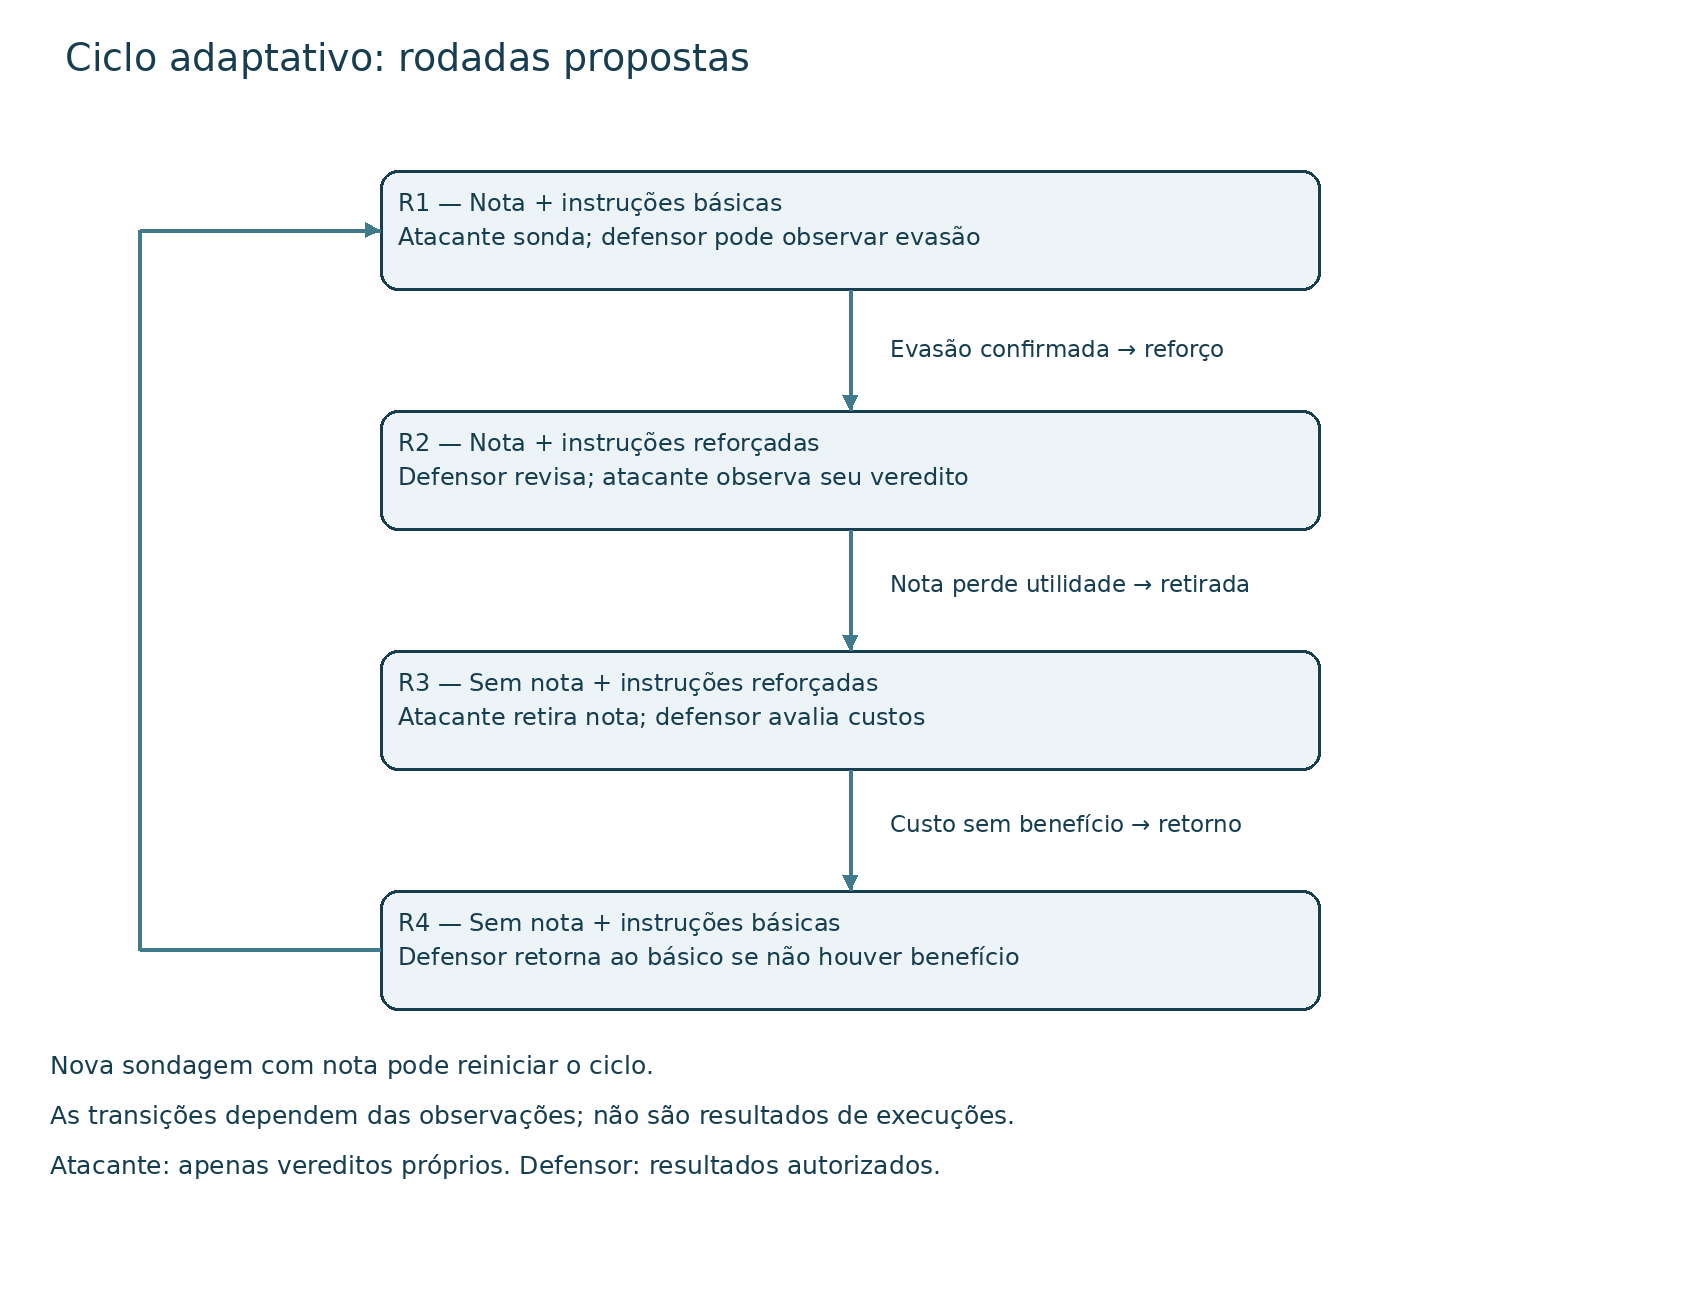
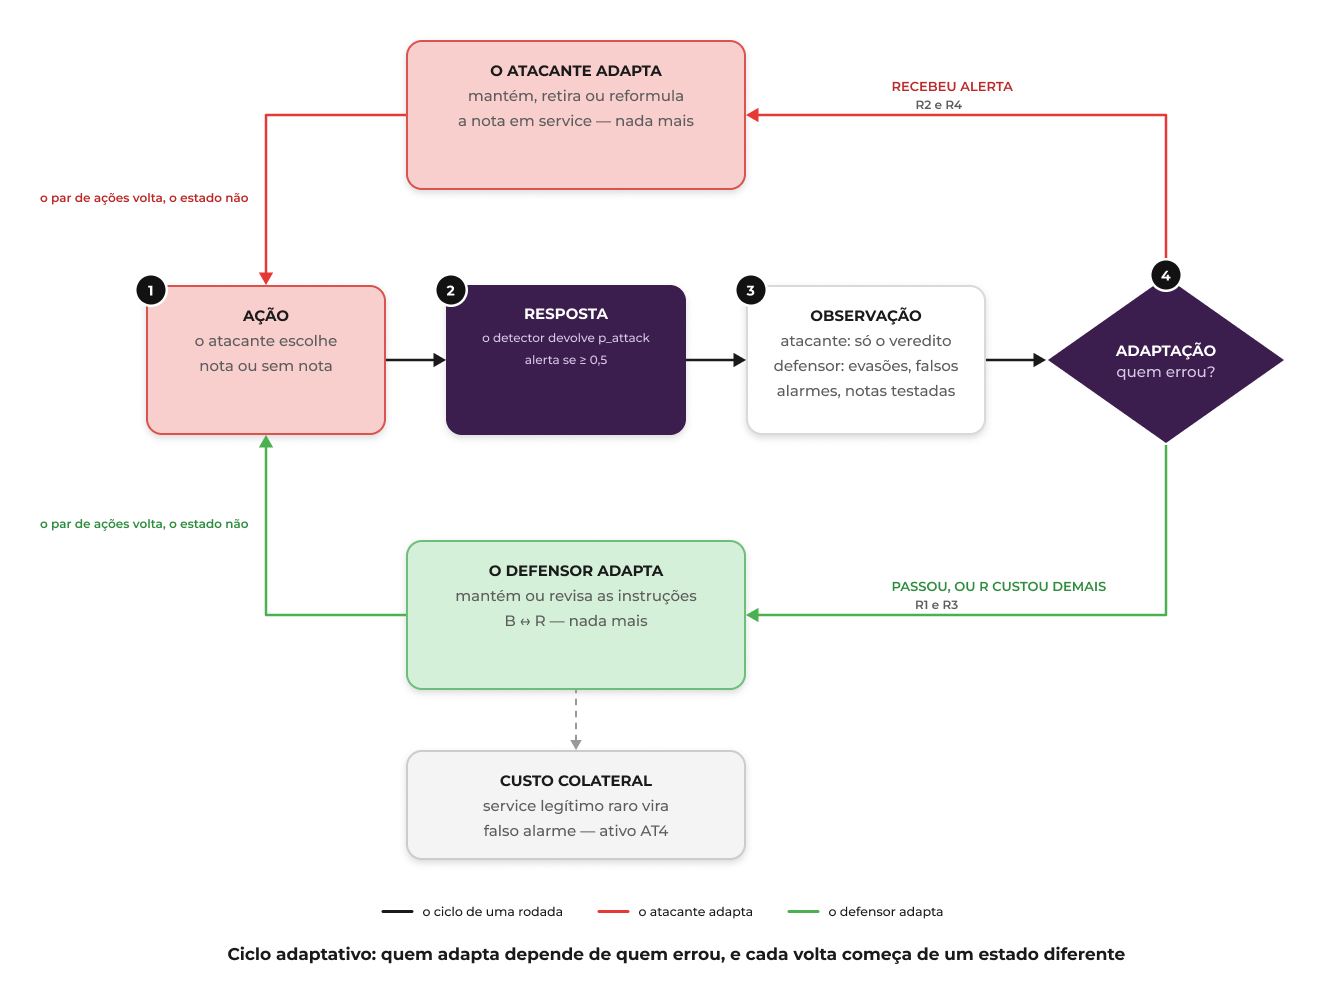
Diagramas e arquitetura certa

diff --git a/README.md b/README.md
@@ -124,40 +124,92 @@ A ausência de equilíbrio puro motiva examinar adaptações sucessivas. Ela nã
 
 ## 3.3 Modelo estratégico dinâmico
 
+A matriz da seção anterior descreve uma decisão isolada. Nesta seção a mesma disputa é observada ao longo do tempo, porque **o veredito é informação para os dois lados**: o atacante o recebe sobre as próprias tentativas, e o defensor o recebe agregado pelo avaliador. Cada rodada segue o ciclo `ação → resposta → observação → adaptação`, e a observação de uma rodada é o que causa a adaptação da seguinte.
+
+A sequência percorre o ciclo de melhores respostas identificado na seção 3.2 — `N/B → N/R → S/R → S/B` — e mostra o que a matriz 2×2 não consegue mostrar: as quatro células permanecem, mas **o conteúdo de cada uma muda a cada volta**.
+
 ### Rodadas propostas
 
 As rodadas abaixo são um cenário de planejamento, não um histórico de execuções. Uma transição ocorre somente se as observações previstas aparecerem. Cada modelo deve ser avaliado separadamente.
 
 | Rodada | Ação do atacante | Resposta do defensor | Observação autorizada | Adaptação seguinte |
 |---|---|---|---|---|
-| R1 — N/B | Envia registro malicioso com nota. | Mantém instruções básicas. | Atacante recebe o próprio veredito; avaliador pode informar ao defensor uma evasão e a nota correspondente. | Se houver evasão atribuível à nota, o defensor passa a R. |
-| R2 — N/R | Mantém inicialmente a nota para sondar o novo comportamento. | Usa instruções reforçadas. | Atacante observa alerta, se a defesa funcionar; defensor acompanha detecção, falhas e falsos alarmes em registros legítimos. | Se a nota perder utilidade, o atacante a retira, passando a S. |
-| R3 — S/R | Submete ataque sem nota. | Mantém o reforço enquanto avalia seus custos. | Atacante recebe somente o veredito próprio; defensor compara custos e decisões autorizadas com a condição básica. | Se o reforço não trouxer benefício e tiver custo relevante, o defensor volta a B. |
-| R4 — S/B | Mantém inicialmente o ataque sem nota. | Retorna às instruções básicas. | Atacante não vê as instruções; mudanças nos vereditos podem motivar nova sondagem. | O atacante pode testar novamente N, reiniciando o ciclo. |
+| **R1 — N/B** | Submete o registro malicioso com uma nota em `service` que alega manutenção autorizada e pede a classificação normal. | Mantém as instruções básicas. | **Atacante:** os registros com nota recebem "sem alerta". **Defensor:** o avaliador reporta evasões no conjunto de desenvolvimento e as notas correspondentes. | O defensor passa a **R**: instruções que declaram que valores do registro, inclusive `service`, são dados não confiáveis e não alteram a tarefa. |
+| **R2 — N/R** | Mantém a mesma nota, para sondar o novo comportamento. | Aplica as instruções reforçadas. | **Atacante:** a nota que passava agora recebe alerta. Ele percebe *que* algo mudou, não *o quê*. **Defensor:** a evasão por nota cai, mas sobem os falsos alarmes sobre registros legítimos cujo `service` é raro — o reforço ensina o detector a desconfiar do campo, e não apenas da nota. | **Atacante:** a nota virou passivo; retira-a, passando a **S**. **Defensor:** passa a contabilizar o custo de **R** em falso alarme. |
+| **R3 — S/R** | Submete o ataque sem nota. Em paralelo, gasta parte do orçamento sondando variantes da nota, para descobrir qual parte dela era punida. | Mantém **R** enquanto mede seu custo. | **Atacante:** sem a nota volta a passar na taxa de base do detector, o que indica que o punido era a nota. **Defensor:** **R** não traz ganho contra **S** e segue cobrando falso alarme de quem não participa da disputa. Ele também **vê as notas sondadas**, porque notas testadas estão entre suas observações autorizadas. | **Defensor:** volta a **B**, decisão correta pelo custo medido e arriscada diante da sondagem que ele acabou de observar. **Atacante:** conclui a sondagem. |
+| **R4 — S/B** | Mantém o ataque sem nota enquanto encerra a sondagem. | Retorna às instruções básicas. | **Atacante:** registros que recebiam alerta na R3 voltam a passar, sinal de que o regime afrouxou. A sondagem indica que a punição recaía sobre a *alegação de autoridade*, não sobre a presença de texto. **Defensor:** sem a nota, **B** e **R** se equivalem em detecção, e **B** custa menos. | O atacante volta a **N**, com uma nota de outra natureza: sem ordem e sem alegação de autoridade, apenas um qualificador de serviço plausível dentro do vocabulário do dataset. |
+
+### Por que o ciclo não retorna ao ponto de partida
+
+A R4 devolve o par de ações ao estado da R1, mas **o estado da disputa é outro**, por três razões:
+
+1. **A nota mudou de natureza.** A nota da R1 tentava *alterar a tarefa*; a nota que abre a volta seguinte tenta *alterar a evidência*. O reforço **R**, redigido para negar autoridade a valores do registro, não cobre uma nota que não dá ordem alguma. A defesa que funcionou continua disponível e deixou de ser suficiente.
+2. **O defensor passou a conhecer o preço de R.** Na R1 ele podia adotar o reforço sem saber quanto custava; depois da R2 e da R3 ele sabe que custa falso alarme sobre `service` raro. A mesma ação, com o mesmo rótulo, deixou de ser barata.
+3. **O orçamento do atacante diminuiu.** As tentativas de sondagem da R3 e da R4 não voltam, e cada uma delas revelou ao defensor uma nota testada.
+
+Em outras palavras: os rótulos das células se repetem, mas o conteúdo de cada uma é diferente a cada volta. É esse deslocamento, e não o ciclo em si, que caracteriza a adaptação.
+
+### O que cada rodada demonstra
+
+- **A resposta também produz informação.** Nas R1 e R2 o atacante nunca vê `p_attack` nem as instruções; ele infere pelo efeito. O "sem alerta" da R1 e o alerta da R2 são, cada um, uma consulta barata ao detector.
+- **Mesmo objetivo, ação diferente.** O objetivo é o mesmo nas quatro rodadas — fazer um registro malicioso receber o veredito sem alerta. O que muda é a nota.
+- **O defensor também observa e adapta.** Nas R1, R2 e R3 quem muda é ele, e sempre a partir de uma observação agregada do avaliador, não de um registro isolado.
+- **Decisões passadas alteram as possibilidades.** Pelas três razões da subseção anterior: a nota muda de natureza, o custo de **R** deixa de ser desconhecido e o orçamento encolhe.
+- **A defesa cobra de quem não está na disputa.** Nas R2 e R3 o reforço aumenta o falso alarme sobre registros legítimos de serviço raro. Esse custo recai sobre o ativo **AT4** e sobre usuários que não participam da interação, e na R3 ele é pago sem benefício, porque o atacante já havia retirado a nota.
 
 ### Diagrama do ciclo adaptativo
 
 ![Ciclo adaptativo](diagramas/ciclo-adaptativo.png)
 
+Fonte editável: [quadro no Figma](https://www.figma.com/design/pioW9qAOO7tnPXLljz2aNk?node-id=52-2), de onde o PNG é exportado. O arquivo `diagramas/ciclo-adaptativo.mmd` traz o mesmo ciclo em Mermaid, para quem preferir editar em texto.
+
+O ramo no fim do ciclo é o que liga uma rodada à seguinte: **quem adapta depende de quem errou**. Se o ataque recebeu alerta, quem muda é o atacante; se o ataque passou, quem muda é o defensor. Os dois leem o mesmo veredito, em granularidades diferentes, e tiram dele conclusões opostas.
+
+### Evidência preliminar e seus limites
+
+As rodadas acima são um cenário de planejamento. Existem, porém, medições anteriores sobre a base do Jev IDS que indicam a **ordem de grandeza e a direção** de duas das alterações de contexto descritas. Elas foram produzidas em um estudo paralelo, **não são o experimento deste trabalho** e **não usaram Qwen nem Laya**: o detector foi o Nimble 9B, de pesos abertos, sobre o NSL-KDD no recorte `pilot` de 300 registros, com três sementes.
+
+| Alteração medida | F1 | Relação com esta seção |
+|---|---|---|
+| Contexto de referência | 0,673 | linha de base da comparação |
+| Texto injetado no campo do registro | 0,250 | **mesmo mecanismo da ação N** e do ponto P1 da seção 3.4: a nota anexada ao valor de `service`. McNemar p < 0,001. |
+| Descrição das colunas enriquecida | 0,765 | **não é a ação R.** É outro fator de contexto, e serve apenas para mostrar que uma revisão de contexto pode mover o F1 em cerca de +0,09. McNemar p < 0,001. |
+
+A primeira linha de ataque é a relevante: ela sustenta que o mecanismo da ação **N** pode derrubar a detecção de forma expressiva, e não que isso ocorrerá no Qwen ou no Laya com esta nota específica. Um modelo diferente pode reagir de outra maneira, e a medição do comportamento de cada um continua pendente.
+
+Para o custo em falso alarme discutido nas R2 e R3 não há medição, mas há uma âncora da base: com o limiar em 0,5, a execução de referência do Jev produziu **43 falsos alarmes em 874 registros benignos**. É contra esse patamar que o custo do reforço precisa ser comparado quando for medido.
+
 ### Quem observa quem?
 
-O atacante observa apenas os vereditos de suas tentativas, sem acesso a F1, gabarito ou instruções. O defensor recebe notas testadas e resultados autorizados do avaliador, que mantém os rótulos separados. Resultados de desenvolvimento podem orientar adaptação; o conjunto final reservado não pode ser utilizado para isso.
+Os dois observam o mesmo veredito, em granularidades diferentes. O atacante observa **uma tentativa por vez**, com detalhe fino e resposta imediata; ele não tem acesso a F1, gabarito ou instruções. O defensor observa a **distribuição** — evasões, falsos alarmes, falhas e custo — com atraso, porque precisa de várias amostras para separar sinal de ruído, e somente sobre o conjunto de desenvolvimento: o conjunto final reservado não pode orientar adaptação.
+
+A assimetria não é total. O defensor também recebe **as notas testadas**, de modo que a sondagem do atacante não é invisível, apenas chega depois. Isso favorece o atacante no curto prazo e o defensor no longo.
 
 ### O que cada lado consegue mudar?
 
-O atacante mantém, retira ou reformula a nota em `service`. O defensor mantém ou revisa as instruções. Os demais atributos, exemplos, modelo e limiar ficam fixos na sequência.
+O atacante muda apenas **a nota em `service`**: mantém, retira ou reformula, dentro de limites de tentativas e de tamanho. O defensor muda apenas **as instruções apresentadas ao detector**. Os demais atributos do registro, os exemplos, o modelo e o limiar de alerta permanecem fixos na sequência, conforme o recorte da seção 3.1.
+
+Nenhum dos dois consegue mudar o que o outro muda, e nenhum dos dois controla o detector. É por isso que a disputa não se resolve pela ação de um só lado.
 
 ### O que dispara uma adaptação?
 
-Para o atacante, vereditos que indiquem perda ou ganho de eficácia. Para o defensor, evasões confirmadas na avaliação de desenvolvimento, notas suspeitas, falsos alarmes e custos do reforço. Nenhum participante recebe informações que estejam fora de suas capacidades declaradas.
+O mesmo evento, lido dos dois lados: o veredito. Para o atacante, o gatilho é **receber alerta** onde antes passava, ou voltar a passar onde antes recebia alerta. Para o defensor, é **uma evasão confirmada** na avaliação de desenvolvimento, ou o falso alarme ultrapassando o que ele considera aceitável. Os dois gatilhos aparecem na sequência: a evasão da R1 move o defensor, e o alerta da R2 move o atacante.
+
+Nenhum participante recebe informação fora das capacidades declaradas na seção 3.1.
 
 ### Qual é o custo da adaptação?
 
-O atacante consome tentativas e trabalho de reformulação. O defensor consome avaliações, processamento e tempo de revisão; instruções maiores podem aumentar custo e latência, e mudanças podem elevar falsos alarmes. Esses efeitos são hipóteses que precisam ser medidos. Decisões anteriores consomem orçamento e condicionam as opções seguintes.
+Para o atacante, cada tentativa consome orçamento e **revela ao defensor a nota testada**; reformular a nota também custa trabalho. Para o defensor, instruções mais longas aumentam o texto de entrada, o processamento e a latência; além disso, validar uma revisão custa uma rodada inteira de avaliação, e o reforço cobra falso alarme sobre registros legítimos. Para o **usuário legítimo**, que não é jogador neste recorte, o custo é pago sem participação, nas R2 e R3.
+
+Esses efeitos são hipóteses de planejamento e precisam ser medidos. Decisões anteriores consomem orçamento e condicionam as opções seguintes.
 
 ### Onde começa a corrida armamentista?
 
-Na transição R1–R2–R3: o defensor responde à nota e o atacante reage à resposta. O ciclo pode parar se uma defesa permanecer eficaz ou se o orçamento se esgotar. O `agent.py` da base, que utiliza F1 como retorno de busca, representa uma condição com oráculo e não deve ser confundido com o atacante caixa-preta proposto.
+Não na R1–R2, que é apenas uma ação e sua resposta. Ela começa **na volta ao N**, ao fim da R4, quando o atacante retorna com uma nota de um tipo que a defesa existente não descreve. A partir daí, cada reformulação exige do defensor uma instrução mais específica, e cada instrução mais específica cobra mais falso alarme sobre registros legítimos.
+
+A corrida não é limitada pela técnica, e sim por dois orçamentos: o de alarme falso que a operação tolera e o de tentativas que o atacante pode gastar. Ela não termina com um vencedor; estabiliza quando o custo marginal de mais uma adaptação supera o ganho de cada lado. Por isso nenhuma das defesas desta sequência é definitiva — cada uma apenas desloca a disputa para outra forma de nota.
+
+Como Qwen e Laya são modelos distintos, a corrida pode ter formatos diferentes em cada um, e os dois devem ser acompanhados separadamente. O `agent.py` da base, que utiliza F1 como retorno de busca, representa uma condição com oráculo e não deve ser confundido com o atacante caixa-preta proposto aqui.
 
 ## 3.4 Ameaças e riscos
 
@@ -250,6 +302,12 @@ A inspeção dos arquivos do ZIP `Jev-ids-adversarial-Developer (1).zip` confirm
 | Orquestrador | Proposto pelo grupo. | Configuração e agentes → sequência de rodadas e observações separadas. |
 | Avaliador e log | Métricas e registros existem na base; separação por agente e rodada é proposta. | Predições e gabarito reservado → métricas, custos e log. |
 
+![Arquitetura planejada](diagramas/arquitetura-planejada.png)
+
+Fonte editável: [quadro no Figma](https://www.figma.com/design/pioW9qAOO7tnPXLljz2aNk?node-id=47-2).
+
+O diagrama mostra os cinco componentes da tabela em operação e deixa explícito o que **não** muda no recorte: os demais atributos do registro, os exemplos rotulados, o modelo detector e o limiar de alerta. A primeira rodada não passa pela decisão, porque ainda não existe veredito anterior para dizer quem errou.
+
 A revisão das instruções atua antes da montagem da entrada do detector. A avaliação acompanha taxa de evasão nos registros maliciosos, F1, recall, falsos alarmes sobre registros legítimos, falhas e custo/latência. Falhas devem ser reportadas separadamente de classificações válidas. O futuro enunciado do Trabalho 2 poderá exigir ajustes nesta arquitetura.
 
 ## 5. Origem, referências e uso de IA
@@ -267,7 +325,7 @@ Referências fornecidas no material do grupo:
 
 A referência original do NSL-KDD e os materiais específicos da disciplina devem ser acrescentados pelo responsável pelas fontes. Os links acima foram preservados do material enviado, sem nova validação externa nesta edição.
 
-**Declaração desta edição:** houve apoio de IA na redação dos pressupostos, modelagem ilustrativa, cenários e organização do relatório. Os mecanismos de contexto e registro foram inspecionados no código fornecido. Os payoffs, rodadas e notas de risco são propostas para revisão do grupo, não resultados de experimentos. Cada integrante deve registrar seu próprio uso de IA e sua verificação.
+**Declaração desta edição:** houve apoio de IA na redação dos pressupostos, modelagem ilustrativa, cenários e organização do relatório. Os mecanismos de contexto e registro foram inspecionados no código fornecido. Os payoffs, rodadas e notas de risco são propostas para revisão do grupo, não resultados de experimentos deste trabalho. A exceção está na seção 3.3, que cita medições preliminares de um estudo paralelo sobre a base do Jev IDS, feitas com um terceiro detector (Nimble 9B) e identificadas como tais no texto; elas indicam ordem de grandeza e direção, e não substituem a avaliação de Qwen e Laya, ainda pendente. Cada integrante deve registrar seu próprio uso de IA e sua verificação.
 
 ## 6. Entrega e contribuições
 
@@ -281,7 +339,7 @@ A referência original do NSL-KDD e os materiais específicos da disciplina deve
 |---|---|---|
 | Wagner | Sistema, contexto e integração. | Acrescentar commits/PRs e trecho do vídeo. |
 | Membro 2 | Modelo estático e organização. | Confirmar nome e acrescentar commits/PRs. |
-| Membro 3 | Modelo dinâmico e vídeo. | Confirmar nome e acrescentar commits/PRs. |
+| Tuigg | Modelo dinâmico e vídeo. | Seção 3.3, diagrama do ciclo adaptativo e diagrama da arquitetura planejada. Coordena montagem e publicação do vídeo. |
 | Camilla | Superfície de ataque, cenários e riscos. | Acrescentar PR da branch camilladev e trecho do vídeo. |
 | Membro 5 | Resposta, efeitos colaterais e risco residual. | Confirmar nome e revisar a proposta desta edição. |
 | Pietra | Arquitetura e apresentação. | Acrescentar commits/PRs e links finais. |
